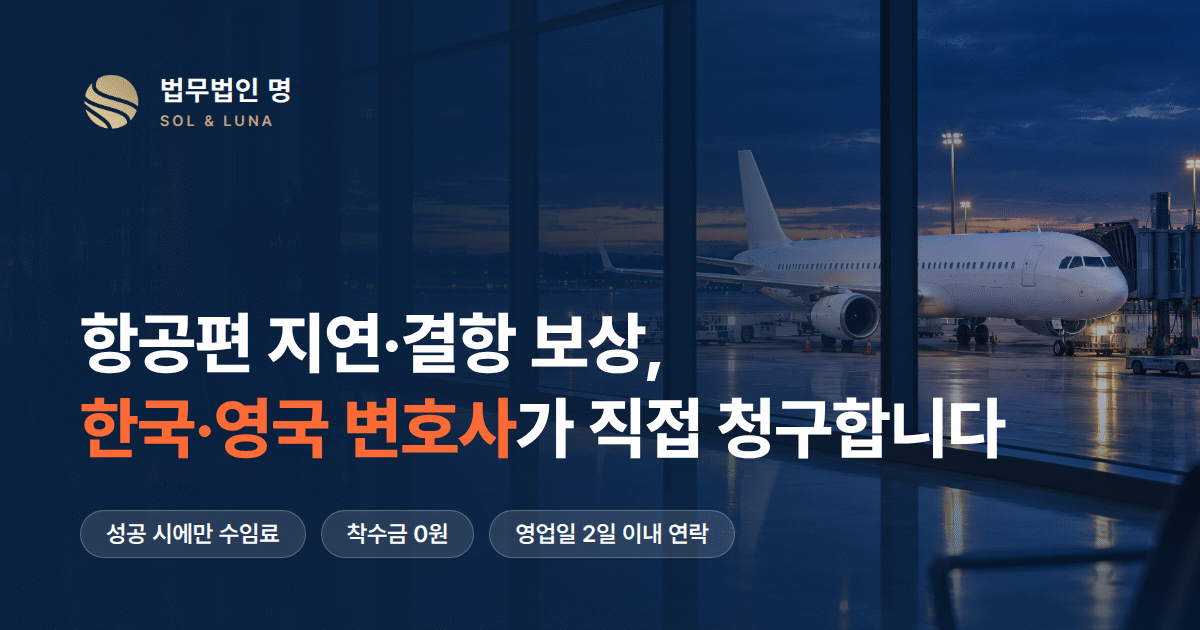
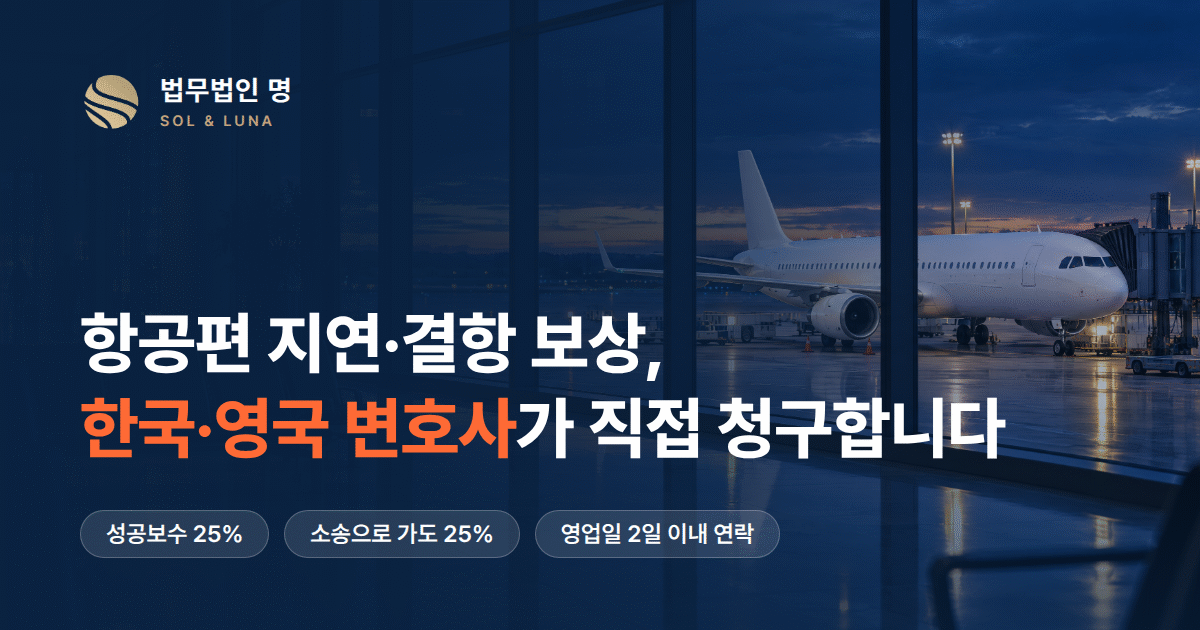
feat: 비용 안내와 공동소송 진행 방식을 사이트에 반영
- 서비스 안내에 '비용 안내' 칸을 새로 만들었습니다 (접수·판단 비용 없음 / 항공사 청구 성공보수 25% / 공동소송 진행비 1인 1만 원 + 성공보수 25%, 모두 부가세 포함)
- 진행 절차를 '항공사 청구 → 거절 시 같은 항공사 사건을 모아 6개월마다 공동소송'으로 바꾸고, '예상 금액' 안내 문구를 뺐습니다
- 자주 묻는 질문: 비용 답변을 새 요율로 고치고, '소송은 언제 하나요?'(6월·12월 마감 → 1개월 안에 동의 → 8월·2월 중 소장 접수)와 '소송으로 가면 얼마를 받나요?'를 추가했습니다
- 홈 첫 화면 숫자 칸을 '성공보수 25% · 소송으로 가도 25% 그대로'로 바꾸고, '착수금 0원'·'수임료' 계열 문구를 '항공사 청구 단계 비용 없음 · 보상받은 경우에만 성공보수'로 통일했습니다
- '최대 600유로'·'전액 손해배상'·'최대 보상' 같은 금액 약속 표현을 낮추고, 보상 사례에 '사건마다 결과가 다르며 같은 금액을 보장하지 않습니다'를 넣었습니다
- 공유 미리보기(og.png) 문구를 새 요율에 맞췄습니다

Claude-Session: https://claude.ai/code/session_01Sn84YuZauVKGZAHYxhELwG

Changed region(s): [[0.1233, 0.7841, 0.6475, 0.9048], [0.8325, 0.3317, 0.925, 0.3619], [0.8942, 0.4524, 0.925, 0.4825]]

diff --git a/src/app/services/page.tsx b/src/app/services/page.tsx
@@ -11,6 +11,20 @@ export const metadata: Metadata = {
   description: '항공 지연·결항에 대한 법무법인 명의 전문 보상 서비스를 안내합니다.',
 }
 
+// 비용 안내 — 자주 묻는 질문(content/faq/01-cost.md)과 같은 내용을 유지해 주세요
+const fees = [
+  { step: '접수·보상 가능 여부 판단', fee: <>비용 없음</> },
+  { step: '항공사 청구', fee: <>보상금을 받은 경우에만 성공보수 <strong className="text-navy">25%</strong> (부가세 포함)</> },
+  { step: '공동소송', fee: <>참여 동의 시 소송 진행비 1인 <strong className="text-navy">1만 원</strong> + 판결금·합의금을 받은 경우 성공보수 <strong className="text-navy">25%</strong> (부가세 포함)</> },
+]
+
+const feeNotes = [
+  '성공보수는 항공사로부터 실제로 받은 금액을 기준으로 계산합니다.',
+  '소송 진행비는 인지대·송달료 등에 쓰이는 정액입니다. 법인이 소송을 제기하지 않게 되면 돌려드립니다.',
+  '공동소송은 같은 항공사 사건을 6개월 단위로 모아 진행합니다 (6월 말·12월 말 마감 → 8월·2월 중 소장 접수).',
+  '소송에서는 한국 법원이 한국법에 따라 판단하며, 재판부마다 인정 금액이 달라 EU 규정 금액보다 적을 수 있습니다.',
+]
+
 const services = [
   {
     id: 'delay',
@@ -18,7 +32,7 @@ const services = [
     title: '항공 지연 보상',
     img: '/images/service-delay.jpg',
     imgLabel: '출발 안내 전광판에 표시된 항공편 지연 안내',
-    desc: '항공편이 3시간 이상 지연된 경우 EU261 또는 소비자보호원 기준에 따라 보상을 청구할 수 있습니다. 지연 사유가 항공사 귀책인지 여부를 전문적으로 분석하여 최대 보상을 이끌어냅니다.',
+    desc: '항공편이 3시간 이상 지연된 경우 EU261 또는 소비자보호원 기준에 따라 보상을 청구할 수 있습니다. 지연 사유가 항공사 귀책인지 여부를 전문적으로 분석하여 청구합니다.',
     bases: ['EU261 규정 (유럽 출도착 노선)', '몬트리올 협약 (국제선)', '소비자분쟁해결기준 (국내선)'],
     table: [
       { range: '3시간 미만', eu: '-', domestic: '-' },
@@ -32,7 +46,7 @@ const services = [
     title: '항공 결항 보상',
     img: '/images/service-cancel.jpg',
     imgLabel: '비 내리는 밤, 승객이 떠난 탑승구에 남은 여행가방',
-    desc: '출발 14일 이내 통보된 결항에 대해 대체편 제공 또는 현금 보상을 청구할 수 있습니다. 숙박비·식비·대체 교통비 등 실비도 함께 청구합니다.',
+    desc: '출발 14일 이내 통보된 결항에 대해 대체편 제공 또는 현금 보상을 청구할 수 있습니다. 숙박비·식비·대체 교통비 등 결항으로 생긴 손해도 함께 청구합니다.',
     bases: ['EU261 규정', '몬트리올 협약', '소비자분쟁해결기준'],
     table: [
       { range: '14일 이전 통보', eu: '보상 없음', domestic: '대체편 제공' },
@@ -121,6 +135,29 @@ export default function ServicesPage() {
               </div>
             </div>
           ))}
+        </div>
+      </div>
+
+      {/* 비용 안내 */}
+      <div id="cost" className="bg-gray-50 py-16 border-t scroll-mt-24">
+        <div className="container-wide section-padding max-w-4xl mx-auto">
+          <h2 className="text-center text-2xl font-extrabold text-navy mb-3 tracking-tight">비용 안내</h2>
+          <p className="text-center text-gray-500 mb-10">보상금을 받지 못하면 성공보수는 없습니다.</p>
+          <div className="bg-white rounded-2xl border border-navy/10 overflow-hidden shadow-sm">
+            {fees.map(({ step, fee }, i) => (
+              <div key={step} className={`grid grid-cols-1 sm:grid-cols-[200px_1fr] gap-1 sm:gap-6 px-6 py-5 ${i ? 'border-t border-navy/5' : ''}`}>
+                <div className="font-bold text-navy">{step}</div>
+                <div className="text-gray-700 leading-relaxed">{fee}</div>
+              </div>
+            ))}
+          </div>
+          <ul className="mt-6 space-y-2">
+            {feeNotes.map((note) => (
+              <li key={note} className="flex items-start gap-2 text-sm text-gray-600 leading-relaxed">
+                <CheckCircle className="w-4 h-4 text-navy/60 mt-0.5 shrink-0" />{note}
+              </li>
+            ))}
+          </ul>
         </div>
       </div>
     </div>

diff --git a/src/components/sections/home/Hero.tsx b/src/components/sections/home/Hero.tsx
@@ -34,7 +34,7 @@ export default function Hero() {
           <div className="max-w-2xl">
             <div className="inline-flex items-center gap-2 bg-white/10 backdrop-blur-sm border border-white/20 rounded-full px-4 py-1.5 mb-6">
               <span className="w-2.5 h-2.5 rounded-full bg-orange animate-pulse" />
-              <span className="text-white text-sm font-semibold tracking-wide">성공 시에만 수임료 발생</span>
+              <span className="text-white text-sm font-semibold tracking-wide">보상받은 경우에만 성공보수</span>
             </div>
 
             <h1 className="text-4xl sm:text-5xl xl:text-7xl font-extrabold text-white leading-[1.3] sm:leading-[1.4] tracking-tight mb-6 sm:mb-8">
@@ -45,8 +45,8 @@ export default function Hero() {
             <div className="mt-6 sm:mt-10 flex gap-6 sm:gap-10">
               {[
                 { label: '한국·영국 변호사', value: '직접 청구' },
-                { label: '착수금·선불금', value: '0원' },
-                { label: '국내외 모든 항공사', value: '청구 가능' },
+                { label: '성공보수 (부가세 포함)', value: '25%' },
+                { label: '소송으로 가도', value: '25% 그대로' },
               ].map((item) => (
                 <div key={item.label}>
                   <div className="text-white font-bold text-lg">{item.value}</div>
@@ -83,7 +83,7 @@ export default function Hero() {
                 <ArrowRight className="w-5 h-5 group-hover:translate-x-1 transition-transform" />
               </button>
               <p className="text-center text-xs text-gray-500 mt-4 font-medium">
-                착수금 없이, 보상금을 받은 경우에만 수임료가 발생합니다.
+                항공사 청구 단계 비용 없음 · 보상받은 경우에만 성공보수
               </p>
             </form>
           </div>

diff --git a/src/lib/process.ts b/src/lib/process.ts
@@ -8,12 +8,12 @@ export const PROCESS_STEPS = [
   {
     title: '보상 가능 여부 판단',
     short: '영업일 2일 이내 연락',
-    desc: '보상 대상인지, 예상 금액과 적용할 기준·관할(한국/유럽)을 판단합니다. 영업일 기준 2일 이내에 결과를 안내드리거나, 판단에 필요한 내용을 여쭤봅니다.',
+    desc: '보상 대상인지, 어떤 기준(EU 규정·몬트리올 협약 등)과 관할을 적용할지 판단합니다. 영업일 기준 2일 이내에 결과를 안내드리거나, 판단에 필요한 내용을 여쭤봅니다.',
   },
   {
     title: '보상 청구',
-    short: '변호사가 청구 수행',
-    desc: '보상이 가능하면 항공사 청구부터 소송까지, 사건에 맞는 방법을 골라 변호사가 청구합니다. 모든 사건이 소송으로 가는 것은 아닙니다.',
+    short: '항공사 청구 · 공동소송',
+    desc: '보상이 가능하면 먼저 변호사가 항공사에 청구합니다. 항공사가 거절하면 같은 항공사 사건을 모아 6개월마다 공동소송을 제기합니다.',
   },
   {
     title: '보상금 수령',

diff --git a/src/app/about/page.tsx b/src/app/about/page.tsx
@@ -53,7 +53,7 @@ export default function AboutPage() {
                 저희는 한국–영국 변호사 협업 체계를 통해 어떤 노선의 피해도 전문적으로 처리합니다.
               </p>
               <div className="space-y-2.5">
-                {['성공 보수 방식 — 보상금을 받은 경우에만 수임료 발생', '보상 가능 여부 판단 — 영업일 기준 2일 이내 연락', '국내외 모든 항공사 처리 가능'].map((item) => (
+                {['성공보수 25% — 보상받은 경우에만, 소송으로 가도 같은 요율', '보상 가능 여부 판단 — 영업일 기준 2일 이내 연락', '국내외 모든 항공사 처리 가능'].map((item) => (
                   <div key={item} className="flex items-center gap-2.5 text-sm text-gray-700">
                     <CheckCircle className="w-4 h-4 text-navy/60 shrink-0" />{item}
                   </div>

diff --git a/src/app/intake/page.tsx b/src/app/intake/page.tsx
@@ -35,9 +35,9 @@ export default function IntakePage() {
                 <h3 className="font-bold text-navy">접수 안내</h3>
                 <div className="space-y-3">
                   {[
-                    { icon: Shield, text: '착수금·선불금 없이 접수' },
+                    { icon: Shield, text: '항공사 청구 단계 비용 없음' },
                     { icon: Clock, text: '영업일 기준 2일 이내 연락' },
-                    { icon: Phone, text: '보상금을 받은 경우에만 수임료 발생 (성공 보수)' },
+                    { icon: Phone, text: '보상받은 경우에만 성공보수 25% (부가세 포함)' },
                   ].map(({ icon: Icon, text }) => (
                     <div key={text} className="flex items-start gap-3 text-sm text-gray-600">
                       <Icon className="w-4 h-4 text-navy/60 mt-0.5 shrink-0" />

diff --git a/src/app/contact/page.tsx b/src/app/contact/page.tsx
@@ -110,7 +110,8 @@ export default function ContactPage() {
           <div className="bg-navy/5 border border-navy/10 rounded-xl p-5 flex items-center justify-center gap-2">
             <CheckCircle className="w-4 h-4 text-navy shrink-0" />
             <p className="text-sm text-gray-600">
-              <strong className="text-navy">착수금·선불금 없음</strong> — 보상금을 받은 경우에만 수임료가 발생합니다 (성공 보수 방식).
+              <strong className="text-navy">항공사 청구 단계 비용 없음</strong> — 보상금을 받은 경우에만 성공보수 25%(부가세 포함)가 발생합니다.{' '}
+              <Link href="/services#cost" className="underline underline-offset-2 hover:text-navy">비용 안내</Link>
             </p>
           </div>
         </div>

diff --git a/src/components/sections/home/RecentCasesTicker.tsx b/src/components/sections/home/RecentCasesTicker.tsx
@@ -36,6 +36,7 @@ export default function RecentCasesTicker({ cases }: { cases: Case[] }) {
           <div className="flex-shrink-0 text-center lg:text-left">
             <h2 className="text-3xl font-extrabold text-white tracking-tight">최신 보상 내역</h2>
             <p className="text-white/70 mt-2 font-medium">가장 최근 보상 지급이 <br className="hidden lg:block"/>완료된 사건입니다.</p>
+            <p className="text-white/50 text-xs mt-2">사건마다 결과가 다르며, 같은 금액을 보장하지 않습니다.</p>
             <Link href="/cases" className="inline-flex items-center gap-1 text-white/80 hover:text-white text-sm font-semibold mt-4">
               전체 사례 보기 <ChevronRight className="w-4 h-4" />
             </Link>

diff --git a/src/components/sections/home/ServiceCards.tsx b/src/components/sections/home/ServiceCards.tsx
@@ -7,14 +7,14 @@ const services = [
     title: '항공기 지연 보상',
     desc: '3시간 이상 지연 시 EU261 또는 국내 소비자보호원 기준으로 지연 보상금을 청구합니다.',
     href: '/services#delay',
-    badge: '최대 600유로',
+    badge: 'EU261 기준 €250~600',
   },
   {
     icon: XCircle,
     title: '항공기 결항 보상',
-    desc: '갑작스러운 결항으로 인한 실비(숙박, 식비 등)와 대체편 관련 손해배상을 전액 청구합니다.',
+    desc: '결항 보상금과 함께, 결항으로 생긴 숙박비·식비 등 손해도 청구합니다.',
     href: '/services#cancel',
-    badge: '전액 손해배상',
+    badge: '손해배상 청구',
   },
 ]
 

diff --git a/src/components/sections/home/IntakeCTA.tsx b/src/components/sections/home/IntakeCTA.tsx
@@ -28,7 +28,8 @@ export default function IntakeCTA() {
           </div>
 
           <p className="text-white/60 text-sm mt-6">
-            ※ 착수금 없이, 보상금을 받은 경우에만 수임료가 발생합니다 (성공 보수 방식)
+            ※ 항공사 청구 단계는 비용이 없고, 보상금을 받은 경우에만 성공보수 25%(부가세 포함)가 발생합니다.{' '}
+            <Link href="/services#cost" className="underline underline-offset-2 hover:text-white">비용 안내</Link>
           </p>
         </div>
       </div>

diff --git a/src/app/cases/page.tsx b/src/app/cases/page.tsx
@@ -33,6 +33,7 @@ export default function CasesPage() {
         ) : (
           <p className="text-center text-gray-500 py-10">보상 사례를 정리하고 있습니다.</p>
         )}
+        {cases.length > 0 && <p className="mt-8 text-center text-xs text-gray-500">사건마다 결과가 다르며, 같은 금액을 보장하지 않습니다.</p>}
 
         {/* CTA */}
         <div className="mt-16 text-center bg-navy/3 rounded-2xl p-10 border border-navy/10">

diff --git a/src/app/cases/[slug]/page.tsx b/src/app/cases/[slug]/page.tsx
@@ -65,6 +65,7 @@ export default function CaseDetailPage({ params }: { params: { slug: string } })
         </div>
 
         <article className="prose prose-gray max-w-none prose-headings:text-navy prose-a:text-navy prose-strong:text-navy" dangerouslySetInnerHTML={{ __html: c.html }} />
+        <p className="mt-8 text-xs text-gray-500">사건마다 결과가 다르며, 같은 금액을 보장하지 않습니다.</p>
 
         <ArticleCTA />
 

diff --git a/content/faq/01-cost.md b/content/faq/01-cost.md
@@ -1,9 +1,10 @@
 ---
-question: "비용이 정말 들지 않나요?"
+question: "비용은 얼마인가요?"
 order: 1
-draft: true  # 변호사 검토 후 이 줄을 지우면 운영 사이트에 표시됩니다
 ---
 
-접수비·착수금·선불금이 없습니다. 보상금을 받은 경우에만 미리 약정한 성공보수를 정산합니다.
+- **접수·보상 가능 여부 판단**: 비용 없음
+- **항공사 청구**: 보상금을 받은 경우에만 성공보수 25%(부가세 포함)
+- **공동소송**: 참여에 동의할 때 소송 진행비 1인 1만 원, 판결금·합의금을 받은 경우 성공보수 25%(부가세 포함)
 
-성공보수 비율과, 소송으로 진행할 때의 비용 부담은 검토 결과를 안내해 드릴 때 함께 설명드립니다.
+성공보수는 항공사로부터 실제로 받은 금액을 기준으로 계산합니다. 소송 진행비는 인지대·송달료 등에 쓰이는 정액이며, 법인이 소송을 제기하지 않게 되면 돌려드립니다.
